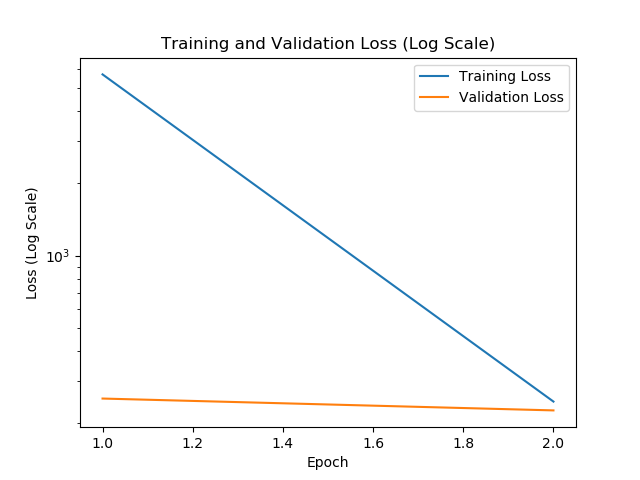
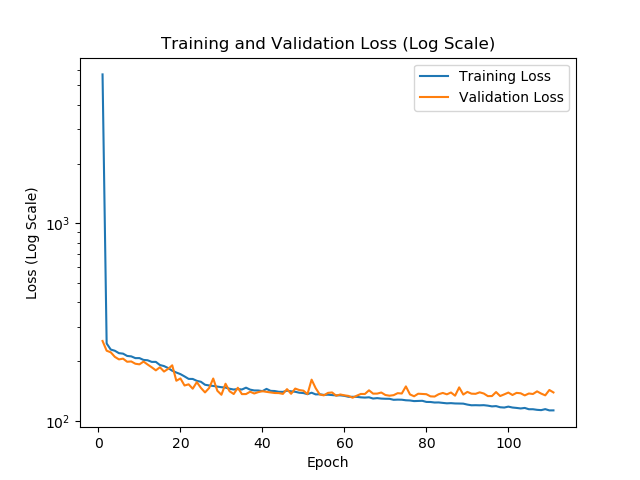
Training with regulaization + GAT implemented (fromGPT)

diff --git a/gcn/results/dag_over_network/v10/model.py b/gcn/results/dag_over_network/v10/model.py
@@ -1,40 +1,38 @@
 import torch
-import torch.nn.functional as F
 import torch.nn as nn
-from torch_geometric.nn import GATConv, global_add_pool, to_hetero
-from torch_geometric.nn import GraphConv  # For comparison
+from torch_geometric.data import Data
+import torch.nn.functional as F
+from torch_geometric.nn import GCNConv, global_mean_pool, GraphConv, global_add_pool, HeteroConv, to_hetero
+
+# torch.manual_seed(1)
+
 
 class GNN(nn.Module):
-    def __init__(self, num_features, hidden_channels, num_heads=8, concat=True):
+    def __init__(self, num_features, hidden_channels):
         super(GNN, self).__init__()
-        self.concat = concat
-        self.num_heads = num_heads
-        self.hidden_channels = hidden_channels
-        out_channels = hidden_channels * num_heads if concat else hidden_channels
-        
-        self.conv1 = GATConv(num_features, hidden_channels, heads=num_heads, concat=concat, add_self_loops=False)
-        self.conv2 = GATConv(out_channels, hidden_channels, heads=num_heads, concat=concat, add_self_loops=False)
-        self.conv3 = GATConv(out_channels, hidden_channels, heads=num_heads, concat=concat, add_self_loops=False)
-        self.conv4 = GATConv(out_channels, hidden_channels, heads=num_heads, concat=concat, add_self_loops=False)
-        self.conv5 = GATConv(out_channels, hidden_channels, heads=num_heads, concat=concat, add_self_loops=False)
+        # Try Graph Attention Network
+        self.conv1 = GraphConv(num_features, hidden_channels)
+        self.conv2 = GraphConv(hidden_channels, hidden_channels)
+        self.conv3 = GraphConv(hidden_channels, hidden_channels)
+        self.conv4 = GraphConv(hidden_channels, hidden_channels)  
+        self.conv5 = GraphConv(hidden_channels, hidden_channels)  
 
     def forward(self, x, edge_index):
         x1 = self.conv1(x, edge_index).relu()
-        x2 = self.conv2(x1, edge_index).relu() + x1  # Residual connection
-        x3 = self.conv3(x2, edge_index).relu() + x2  # Residual connection
-        x4 = self.conv4(x3, edge_index).relu() + x3  # Residual connection
-        x5 = self.conv5(x4, edge_index) + x4  # Residual connection
+        x2 = self.conv2(x1, edge_index).relu() + x1  
+        x3 = self.conv3(x2, edge_index).relu() + x2  
+        x4 = self.conv4(x3, edge_index).relu() + x3  
+        x5 = self.conv5(x4, edge_index) + x4  
         return x5
 
+
 class LatencyModel(nn.Module):
-    def __init__(self, num_features, hidden_channels, metadata, aggr='sum', num_heads=8, concat=True):
+    def __init__(self, num_features, hidden_channels, metadata, aggr='sum'):
         super(LatencyModel, self).__init__()
-        gnn = GNN(num_features, hidden_channels, num_heads, concat)
+        gnn = GNN(num_features, hidden_channels)
         self.hetero_gnn = to_hetero(gnn, metadata, aggr=aggr)
         
-        out_channels = hidden_channels * num_heads if concat else hidden_channels
-        
-        self.lin1 = nn.Linear(out_channels, 128)
+        self.lin1 = nn.Linear(hidden_channels, 128)
         self.bn1 = nn.BatchNorm1d(128)
         self.dropout1 = nn.Dropout(p=0.5)
         
@@ -56,7 +54,6 @@ class LatencyModel(nn.Module):
         
         x = self.lin3(x)
         return x
-
 
 
 if __name__ == "__main__":
@@ -95,8 +92,7 @@ if __name__ == "__main__":
 
         """Heterogenous"""
         print(f"\n")
-        # metadata -> [[node_types], [edge_types]
-        metadata = undirected_data.metadata()
+        metadata = undirected_data.metadata() # metadata -> [[node_types], [edge_types]
         # model_hetero = to_hetero(model, metadata)
         model_hetero = LatencyModel(
             num_features=FEATURES, hidden_channels=HIDDEN_CHANNELS, metadata=metadata, aggr='sum')

diff --git a/gcn/utils.py b/gcn/utils.py
@@ -134,19 +134,30 @@ def load_data(dir_path, num_mappings):
     return list_of_graphs
 
 
-def do_inference(data, MODEL, model_path, input_features):
+def do_inference(data, MODEL, model_path, input_features, is_hetero=False):
     import torch
     model_state_dict = torch.load(
         model_path,  map_location=torch.device('cpu'))
-    model = MODEL(num_node_features=input_features).to(torch.device('cpu'))
-    model.load_state_dict(model_state_dict)
-    pred_latency = model(data.x, data.edge_index, data.batch)
+    
+    if is_hetero:
+        metadata = data.metadata()
+        print(data.batch_dict)
+        model = MODEL(num_features=input_features, hidden_channels=512, metadata=metadata).to(torch.device('cpu'))
+        x = data.x_dict
+        edge_index = data.edge_index_dict
+        batch = data.batch_dict['link']
+        pred_latency = MODEL(x, edge_index, batch).squeeze(1)
+    else:
+        model = MODEL(num_node_features=input_features).to(torch.device('cpu'))
+        model.load_state_dict(model_state_dict)
+        pred_latency = model(data.x, data.edge_index, data.batch)
+
     actual_latency = data.y
-    model.load_state_dict(model_state_dict)
+    # model.load_state_dict(model_state_dict)
     return pred_latency.item(), actual_latency.item()
 
 
-def get_tau_result(list_of_graphs, MODEL, model_path, input_features, show_plot=False):
+def get_tau_result(list_of_graphs, MODEL, model_path, input_features, show_plot=False, is_hetero=False):
     from scipy.stats import kendalltau
     tau_list = []
     for idx, list_of_iso in enumerate(list_of_graphs):
@@ -154,8 +165,12 @@ def get_tau_result(list_of_graphs, MODEL, model_path, input_features, show_plot=
         list_of_pred = []
         list_of_actual = []
         for data in list_of_iso:
-            pred, actual = do_inference(
-                data, MODEL=MODEL, model_path=model_path, input_features=input_features)
+            if is_hetero:
+                pred, actual = do_inference(
+                    data, MODEL=MODEL, model_path=model_path, input_features=input_features, is_hetero=True)
+            else: 
+                pred, actual = do_inference(
+                    data, MODEL=MODEL, model_path=model_path, input_features=input_features)
             list_of_pred.append(pred)
             list_of_actual.append(actual)
 

diff --git a/gcn/train.py b/gcn/train.py
@@ -37,7 +37,7 @@ MODEL_PATH = "gcn/results/"
 
 torch.manual_seed(1)
 
-SAVE_RESULTS = "gcn/results/dag_over_network/v9"
+SAVE_RESULTS = "gcn/results/dag_over_network/v10"
 
 if not os.path.exists(SAVE_RESULTS):
     os.makedirs(SAVE_RESULTS)
